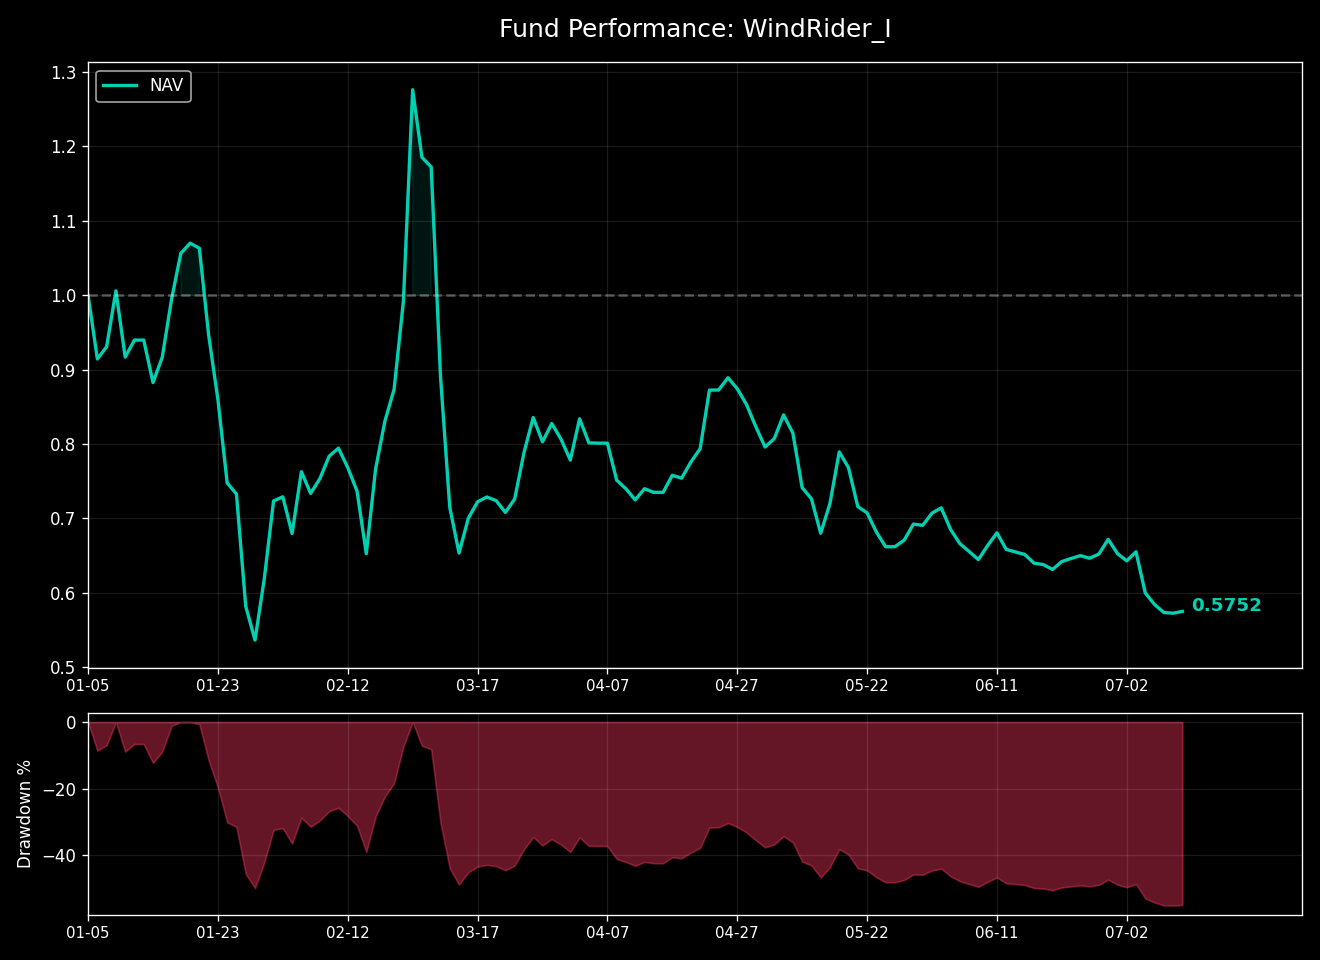
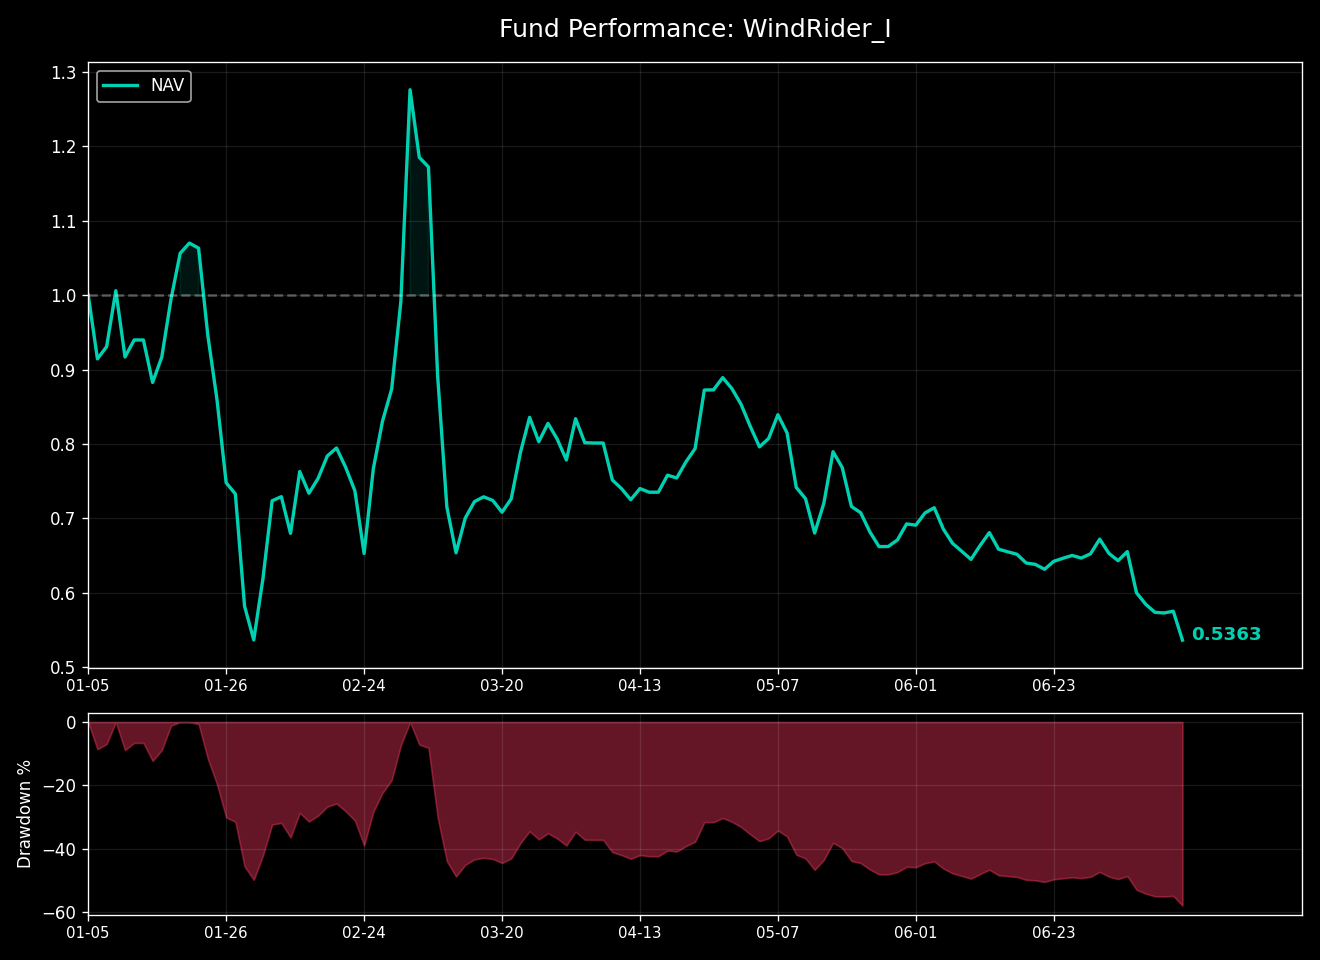
Updated Hugo site content

diff --git a/content/investment/windrider-1.md b/content/investment/windrider-1.md
@@ -1,8 +1,8 @@
 +++
 title = "风舵1号 (WindRider I)  /// 指数"
 summary = "商品期货分形摆动策略，实盘最新净值与核心风险指标。"
-date = 2026-07-10T15:15:06+08:00
-lastmod = 2026-07-10T15:15:06+08:00
+date = 2026-07-13T15:15:04+08:00
+lastmod = 2026-07-13T15:15:04+08:00
 draft = false
 description = "商品期货分形摆动策略实盘"
 +++
@@ -15,24 +15,24 @@ description = "商品期货分形摆动策略实盘"
 
 ### 风舵1号 (WindRider I) &nbsp;&nbsp;<span style="color: #E63946; font-weight: bold;">/</span><span style="color: #F1A73E; font-weight: bold;">/</span><span style="color: #000091; font-weight: bold;">/</span>&nbsp;&nbsp; 指数
 商品期货分形摆动策略实盘<br>
-净值简报 <small>(截至: 2026-07-10)</small>
+净值简报 <small>(截至: 2026-07-13)</small>
 
 |  |  |
 | :--- | :--- |
 | **指数代码：** | WDR1.CTA |
 | **起步日期：** | 2026-01-05 |
-| **最新净值：** | 0.5752 |
-| **今日涨跌：** | +0.42% |
+| **最新净值：** | 0.5363 |
+| **今日涨跌：** | -6.76% |
 
 ===========================
 
 | 核心指标 | |
 | :--- | :--- |
-| **累计涨跌：** | -42.48% |
-| **年化收益：** | -66.22% |
-| **最大回撤：** | -55.11% |
-| **卡玛比率：** | -1.20 |
-| **策略状态：** | 已运行 187 天 |
+| **累计涨跌：** | -46.37% |
+| **年化收益：** | -69.98% |
+| **最大回撤：** | -57.97% |
+| **卡玛比率：** | -1.21 |
+| **策略状态：** | 已运行 190 天 |
 
 ### 净值曲线
 ![风舵1号净值曲线](/images/investment/windrider_nav.png)